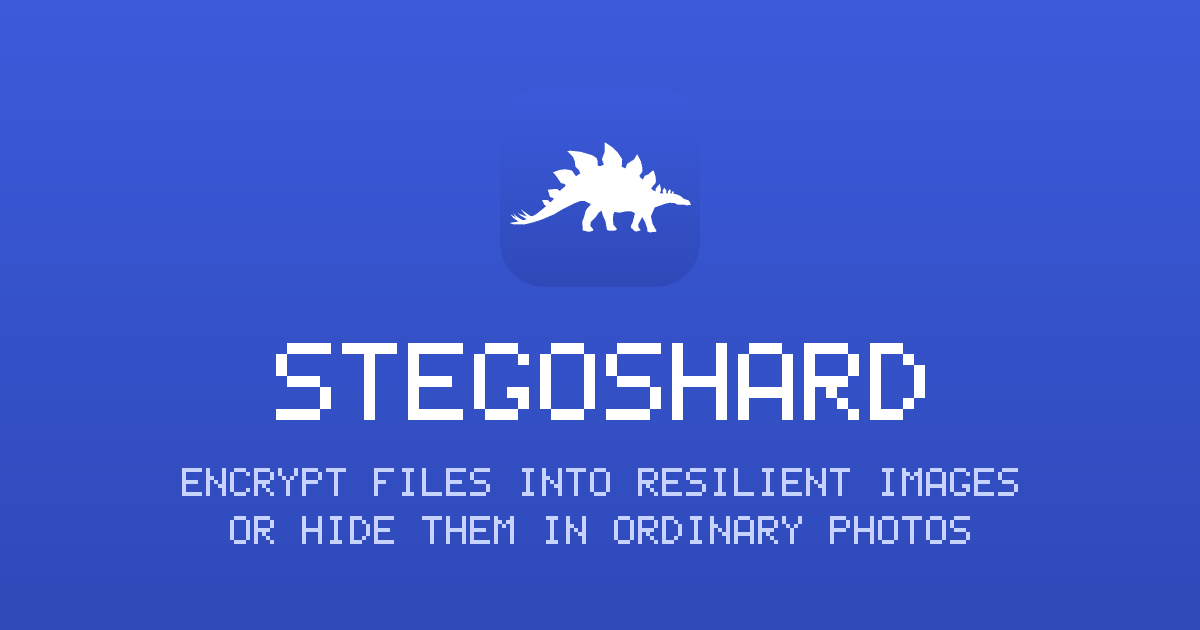
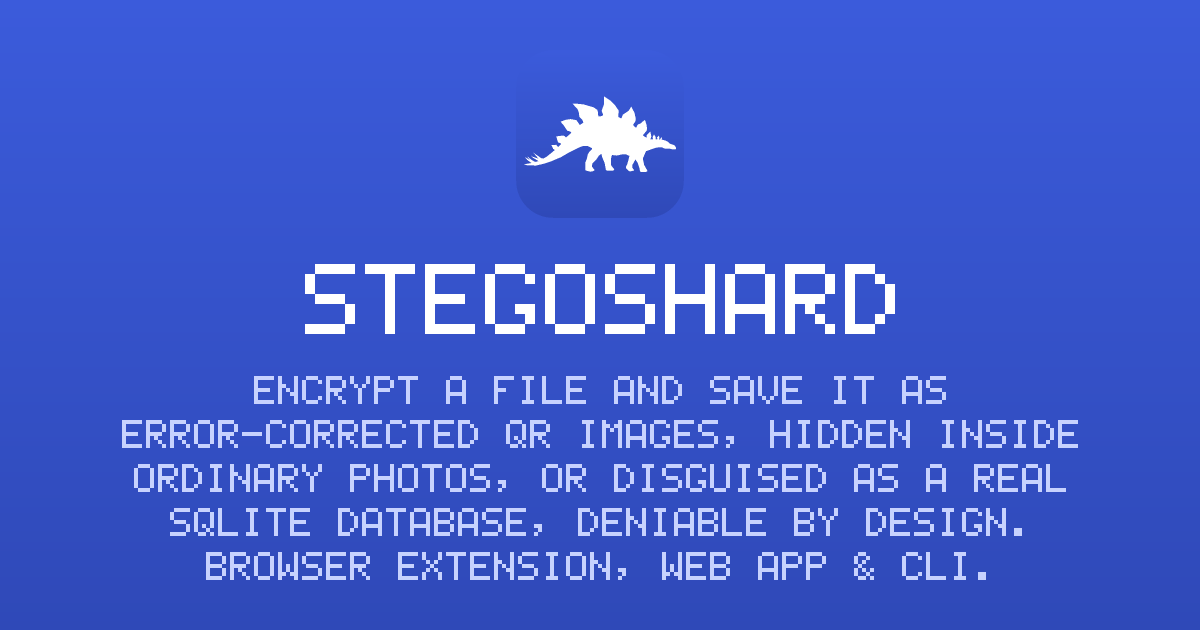
fix: put the repository's About text on the preview card (#138)
The card carried a two-line summary written for the card itself, and it had
fallen behind the project: it described resilient images and hiding in photos,
and said nothing about the disguised SQLite database, deniability, or the fact
that this ships as an extension, a web app and a CLI. The About text on the
repository says all of that in one sentence, so the card now says exactly what
GitHub says, rather than a second description that has to be remembered
separately.

It is stored in sentence case and folded to the font's ASCII 32..90 glyph set by
`foldToBrandText` at render time, so there is no capitalised copy to keep in
step. Every character survives the fold, `&` included.

The layout picks its own type size. The description went from 62 characters to
181, which no longer fits on two hand-placed lines, so it is wrapped with the
`wrapText` the paper sheet already uses and rendered at the largest scale from a
candidate list that still fits the card, falling to a build error rather than
overflowing if it never does. A hardcoded scale would have silently spilled off
the card the next time this sentence grew, which is the same failure that put a
stale description there in the first place.

Five lines at scale 4 as of this commit. The muted tagline colour measures
3.8:1 against the lightest end of the gradient and 5.1:1 against the darkest,
and the type is 28px, so it clears AA for large text across the whole card.
[…]

Changed region(s): [[0.0925, 0.3921, 0.8942, 0.9349], [0.4317, 0.1508, 0.5858, 0.3619]]

diff --git a/scripts/gen-og-image.ts b/scripts/gen-og-image.ts
@@ -19,7 +19,16 @@
 import { writeFileSync } from 'node:fs';
 import { resolve } from 'node:path';
 import { PNG } from 'pngjs';
-import { ACCENT_BOT, ACCENT_TOP, drawMark, drawText, textWidth } from '../src/core/brand';
+import {
+  ACCENT_BOT,
+  ACCENT_TOP,
+  drawMark,
+  drawText,
+  foldToBrandText,
+  textHeight,
+  textWidth,
+} from '../src/core/brand';
+import { wrapText } from '../src/ui/text-wrap';
 
 const W = 1200;
 const H = 630;
@@ -30,9 +39,47 @@ const WHITE: readonly [number, number, number] = [0xff, 0xff, 0xff];
 const MUTED: readonly [number, number, number] = [0xc7, 0xd2, 0xfe];
 
 const WORDMARK = 'STEGOSHARD';
-// Folded to the glyph set (ASCII 32..90, uppercase) the bitmap font covers.
-const TAGLINE = 'ENCRYPT FILES INTO RESILIENT IMAGES';
-const SUBLINE = 'OR HIDE THEM IN ORDINARY PHOTOS';
+
+/**
+ * The repository's About text, verbatim.
+ *
+ * One sentence describes this project in the places people meet it, so the card
+ * says what GitHub says. `foldToBrandText` maps it onto the font's ASCII 32..90
+ * glyph set at render time, rather than a second copy being kept in capitals.
+ */
+const ABOUT =
+  'Encrypt a file and save it as error-corrected QR images, hidden inside ordinary ' +
+  'photos, or disguised as a real SQLite database, deniable by design. ' +
+  'Browser extension, web app & CLI.';
+
+const MARGIN_X = 90;
+const MAX_TEXT_W = W - MARGIN_X * 2;
+const MARK = 168;
+const WORD_SCALE = 10;
+const GAP_MARK = 46;
+const GAP_WORD = 42;
+/** Smallest breathing room above and below the whole block. */
+const MARGIN_Y = 44;
+
+/** Line spacing scales with the type, so the block stays proportionate. */
+const lineGap = (scale: number): number => scale * 4;
+
+function layout(scale: number): { lines: string[]; height: number } {
+  const lines = wrapText(ABOUT, MAX_TEXT_W, (s) => textWidth(foldToBrandText(s), scale));
+  const body = lines.length * textHeight(scale) + (lines.length - 1) * lineGap(scale);
+  return { lines, height: MARK + GAP_MARK + textHeight(WORD_SCALE) + GAP_WORD + body };
+}
+
+/**
+ * Largest type the description fits in at. Chosen rather than fixed because the
+ * About text is the kind of thing that gets rewritten, and a hardcoded scale
+ * would silently overflow the card the next time it grows.
+ */
+const scale = [6, 5, 4, 3, 2].find((s) => layout(s).height <= H - MARGIN_Y * 2) ?? 2;
+const { lines, height } = layout(scale);
+if (height > H - MARGIN_Y * 2) {
+  throw new Error(`the description does not fit the card even at scale 2 (${height}px)`);
+}
 
 const png = new PNG({ width: W, height: H });
 const canvas = { data: new Uint8ClampedArray(png.data.buffer, 0, W * H * 4), width: W, height: H };
@@ -52,25 +99,21 @@ for (let y = 0; y < H; y++) {
   }
 }
 
-const MARK = 200;
-const WORD_SCALE = 11;
-const TAG_SCALE = 4;
+const centred = (text: string, s: number): number => Math.round((W - textWidth(text, s)) / 2);
 
-// Centred as one block: mark, wordmark, then the two tagline rows.
-const wordW = textWidth(WORDMARK, WORD_SCALE);
-const blockH = MARK + 56 + 7 * WORD_SCALE + 48 + 7 * TAG_SCALE + 20 + 7 * TAG_SCALE;
-let y = Math.round((H - blockH) / 2);
+let y = Math.round((H - height) / 2);
 
 drawMark(canvas, Math.round((W - MARK) / 2), y, MARK);
-y += MARK + 56;
+y += MARK + GAP_MARK;
 
-drawText(canvas, WORDMARK, Math.round((W - wordW) / 2), y, WORD_SCALE, WHITE);
-y += 7 * WORD_SCALE + 48;
+drawText(canvas, WORDMARK, centred(WORDMARK, WORD_SCALE), y, WORD_SCALE, WHITE);
+y += textHeight(WORD_SCALE) + GAP_WORD;
 
-drawText(canvas, TAGLINE, Math.round((W - textWidth(TAGLINE, TAG_SCALE)) / 2), y, TAG_SCALE, MUTED);
-y += 7 * TAG_SCALE + 20;
-
-drawText(canvas, SUBLINE, Math.round((W - textWidth(SUBLINE, TAG_SCALE)) / 2), y, TAG_SCALE, MUTED);
+for (const line of lines) {
+  const folded = foldToBrandText(line);
+  drawText(canvas, folded, centred(folded, scale), y, scale, MUTED);
+  y += textHeight(scale) + lineGap(scale);
+}
 
 writeFileSync(OUT, PNG.sync.write(png));
-console.log(`og.png  ${W}x${H}  ->  ${OUT}`);
+console.log(`og.png  ${W}x${H}  ${lines.length} lines at scale ${scale}  ->  ${OUT}`);

diff --git a/vite.web.config.ts b/vite.web.config.ts
@@ -141,7 +141,8 @@ function seoMeta(): Plugin {
           tag({ property: 'og:image:height', content: '630' }),
           tag({
             property: 'og:image:alt',
-            content: 'The StegoShard wordmark and stegosaurus mark on a blue field.',
+            content:
+              'The StegoShard mark and wordmark above the project description, on a blue field.',
           }),
           tag({ name: 'twitter:card', content: 'summary_large_image' }),
           tag({ name: 'twitter:title', content: title }),
